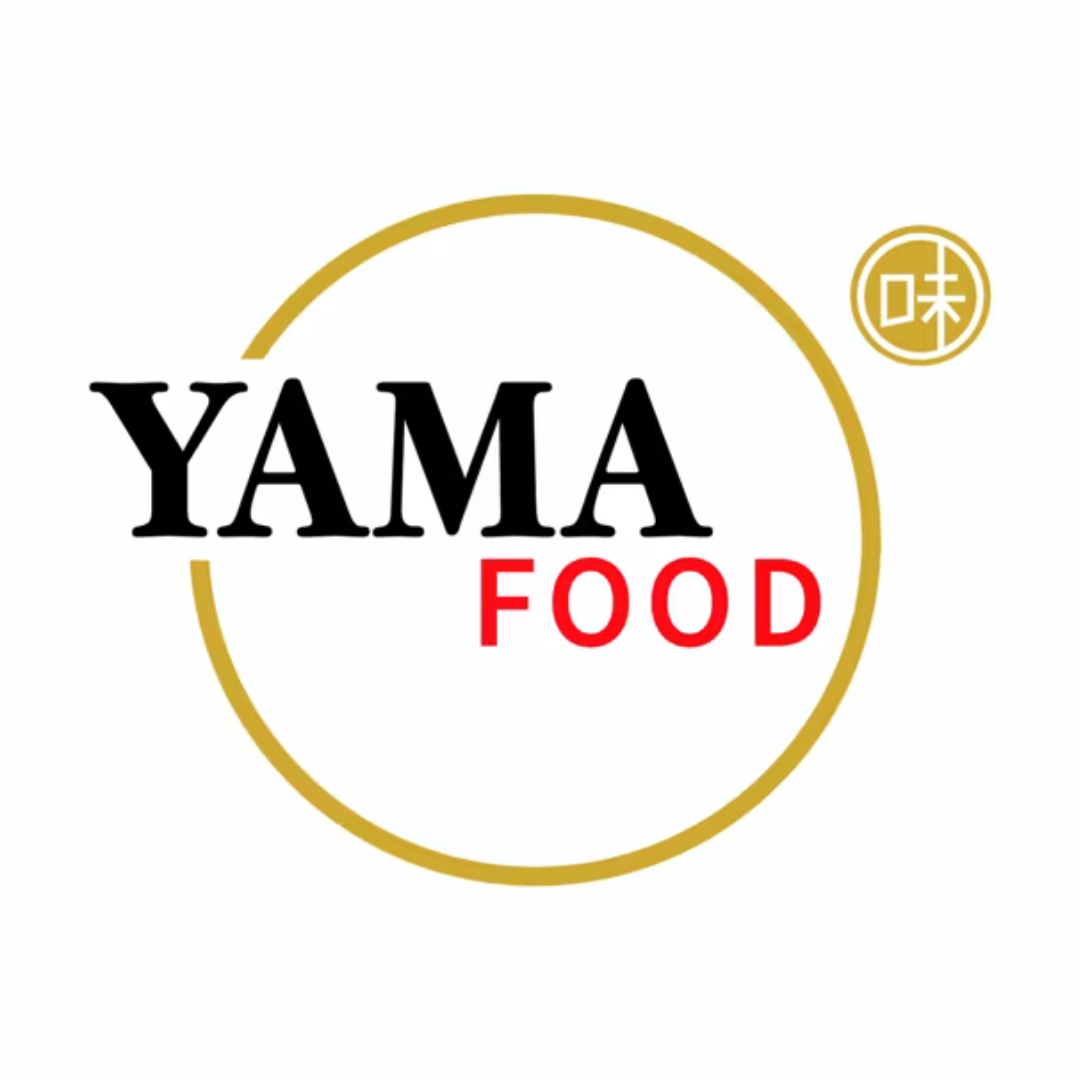
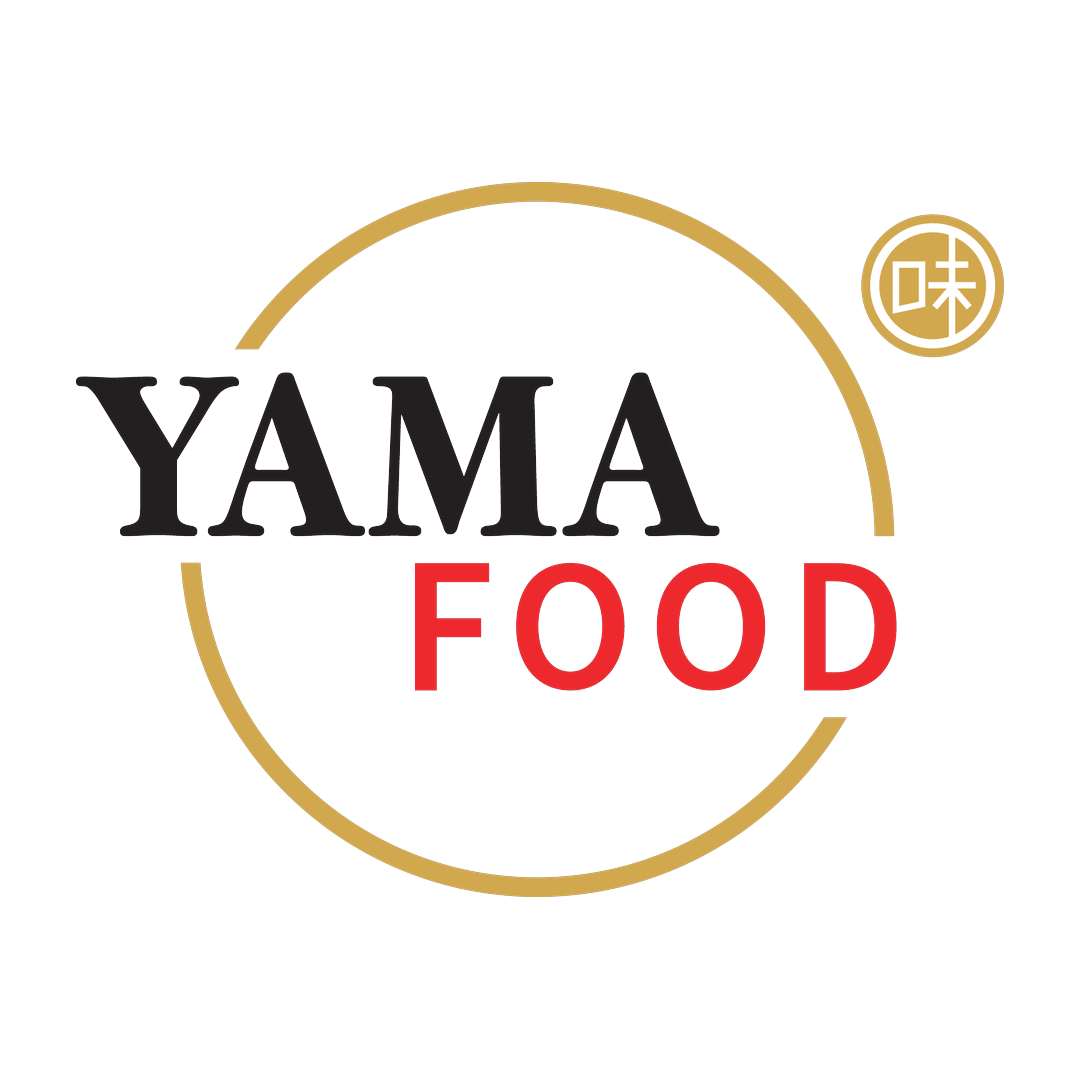
Partnerlogo's klikbaar + officieel Yama-beeldmerk
Elk logo in de slider linkt nu naar de site van de partner, in een
nieuw tabblad. De slider toont elke rij twee keer voor de doorlopende
scroll; die tweede set krijgt tabindex="-1" en aria-hidden, zodat
toetsenbord en screenreaders niet twaalf dubbele links tegenkomen.
Focus-outline toegevoegd voor toetsenbordgebruik.

Yama vervangen door het officiele beeldmerk uit Merkmateriaal:
transparant, getrimd en op hetzelfde vierkante formaat als de andere
tegels.

Changed region(s): [[0.0611, 0.1528, 0.9472, 0.8556]]

diff --git a/en/index.html b/en/index.html
@@ -8,7 +8,7 @@
   <link rel="preconnect" href="https://fonts.googleapis.com" />
   <link rel="preconnect" href="https://fonts.gstatic.com" crossorigin />
   <link href="https://fonts.googleapis.com/css2?family=Fraunces:opsz,wght@9..144,700;9..144,900&family=Montserrat:wght@300;500;600;700&display=swap" rel="stylesheet" />
-  <link rel="stylesheet" href="../style.css?v=16" />
+  <link rel="stylesheet" href="../style.css?v=28" />
   <link rel="icon" type="image/png" sizes="32x32" href="../assets/favicon-32.png" />
   <link rel="icon" type="image/png" sizes="16x16" href="../assets/favicon-16.png" />
   <link rel="icon" type="image/png" sizes="192x192" href="../assets/favicon-192.png" />
@@ -191,32 +191,32 @@
         <div class="partner-slider" aria-label="Partners and ambassadors">
           <div class="partner-track">
             <!-- set 1 -->
-            <div class="partner-logo"><img src="../assets/partners/coca-cola.png" alt="Coca-Cola" /></div>
-            <div class="partner-logo"><img src="../assets/partners/hendi.jpg" alt="HENDI" /></div>
-            <div class="partner-logo"><img src="../assets/partners/mocca-dor.jpg" alt="Mocca d'Or" /></div>
-            <div class="partner-logo"><img src="../assets/partners/kikkoman.jpg"       alt="Kikkoman" /></div>
-            <div class="partner-logo"><img src="../assets/partners/rational.png"       alt="Rational" /></div>
-            <div class="partner-logo"><img src="../assets/partners/big-green-egg.jpg"  alt="Big Green Egg" /></div>
-            <div class="partner-logo"><img src="../assets/partners/think-ahead.jpg"    alt="Think Ahead" /></div>
-            <div class="partner-logo"><img src="../assets/partners/van-drie.jpg"       alt="Van Drie" /></div>
-            <div class="partner-logo"><img src="../assets/partners/gastvrij-rotterdam.png" alt="Gastvrij Rotterdam" /></div>
-            <div class="partner-logo"><img src="../assets/partners/horecava.png" alt="Horecava" /></div>
-            <div class="partner-logo"><img src="../assets/partners/gastronomisch-gilde.png" alt="Gastronomisch Gilde" /></div>
-            <div class="partner-logo"><img src="../assets/partners/yama.png" alt="Yama Food" /></div>
+            <a class="partner-logo" href="https://www.cocacolaep.com/netherlands/" target="_blank" rel="noopener"><img src="../assets/partners/coca-cola.png" alt="Coca-Cola" /></a>
+            <a class="partner-logo" href="https://www.hendi.eu/nl/" target="_blank" rel="noopener"><img src="../assets/partners/hendi.jpg" alt="HENDI" /></a>
+            <a class="partner-logo" href="https://moccador.nl/" target="_blank" rel="noopener"><img src="../assets/partners/mocca-dor.jpg" alt="Mocca d'Or" /></a>
+            <a class="partner-logo" href="https://www.kikkoman.nl/" target="_blank" rel="noopener"><img src="../assets/partners/kikkoman.jpg"       alt="Kikkoman" /></a>
+            <a class="partner-logo" href="https://rational.nl/" target="_blank" rel="noopener"><img src="../assets/partners/rational.png"       alt="Rational" /></a>
+            <a class="partner-logo" href="https://www.biggreenegg.eu/nl/" target="_blank" rel="noopener"><img src="../assets/partners/big-green-egg.jpg"  alt="Big Green Egg" /></a>
+            <a class="partner-logo" href="https://www.torkglobal.com/nl/nl" target="_blank" rel="noopener"><img src="../assets/partners/think-ahead.jpg"    alt="Think Ahead" /></a>
+            <a class="partner-logo" href="https://www.vandriegroup.com/nl/" target="_blank" rel="noopener"><img src="../assets/partners/van-drie.jpg"       alt="Van Drie" /></a>
+            <a class="partner-logo" href="https://www.gastvrij-rotterdam.nl/" target="_blank" rel="noopener"><img src="../assets/partners/gastvrij-rotterdam.png" alt="Gastvrij Rotterdam" /></a>
+            <a class="partner-logo" href="https://www.horecava.nl/" target="_blank" rel="noopener"><img src="../assets/partners/horecava.png" alt="Horecava" /></a>
+            <a class="partner-logo" href="https://www.gastronomischgilde.online/" target="_blank" rel="noopener"><img src="../assets/partners/gastronomisch-gilde.png" alt="Gastronomisch Gilde" /></a>
+            <a class="partner-logo" href="https://yama.nl/nl/yama-food/" target="_blank" rel="noopener"><img src="../assets/partners/yama.png" alt="Yama Food" /></a>
 
             <!-- set 2 (duplicate for seamless loop) -->
-            <div class="partner-logo"><img src="../assets/partners/coca-cola.png" alt="" aria-hidden="true" /></div>
-            <div class="partner-logo"><img src="../assets/partners/hendi.jpg" alt="" aria-hidden="true" /></div>
-            <div class="partner-logo"><img src="../assets/partners/mocca-dor.jpg" alt="" aria-hidden="true" /></div>
-            <div class="partner-logo"><img src="../assets/partners/kikkoman.jpg"       alt="" aria-hidden="true" /></div>
-            <div class="partner-logo"><img src="../assets/partners/rational.png"       alt="" aria-hidden="true" /></div>
-            <div class="partner-logo"><img src="../assets/partners/big-green-egg.jpg"  alt="" aria-hidden="true" /></div>
-            <div class="partner-logo"><img src="../assets/partners/think-ahead.jpg"    alt="" aria-hidden="true" /></div>
-            <div class="partner-logo"><img src="../assets/partners/van-drie.jpg"       alt="" aria-hidden="true" /></div>
-            <div class="partner-logo"><img src="../assets/partners/gastvrij-rotterdam.png" alt="" aria-hidden="true" /></div>
-            <div class="partner-logo"><img src="../assets/partners/horecava.png" alt="" aria-hidden="true" /></div>
-            <div class="partner-logo"><img src="../assets/partners/gastronomisch-gilde.png" alt="" aria-hidden="true" /></div>
-            <div class="partner-logo"><img src="../assets/partners/yama.png" alt="" aria-hidden="true" /></div>
+            <a class="partner-logo" href="https://www.cocacolaep.com/netherlands/" target="_blank" rel="noopener" tabindex="-1" aria-hidden="true"><img src="../assets/partners/coca-cola.png" alt="" aria-hidden="true" /></a>
+            <a class="partner-logo" href="https://www.hendi.eu/nl/" target="_blank" rel="noopener" tabindex="-1" aria-hidden="true"><img src="../assets/partners/hendi.jpg" alt="" aria-hidden="true" /></a>
+            <a class="partner-logo" href="https://moccador.nl/" target="_blank" rel="noopener" tabindex="-1" aria-hidden="true"><img src="../assets/partners/mocca-dor.jpg" alt="" aria-hidden="true" /></a>
+            <a class="partner-logo" href="https://www.kikkoman.nl/" target="_blank" rel="noopener" tabindex="-1" aria-hidden="true"><img src="../assets/partners/kikkoman.jpg"       alt="" aria-hidden="true" /></a>
+            <a class="partner-logo" href="https://rational.nl/" target="_blank" rel="noopener" tabindex="-1" aria-hidden="true"><img src="../assets/partners/rational.png"       alt="" aria-hidden="true" /></a>
+            <a class="partner-logo" href="https://www.biggreenegg.eu/nl/" target="_blank" rel="noopener" tabindex="-1" aria-hidden="true"><img src="../assets/partners/big-green-egg.jpg"  alt="" aria-hidden="true" /></a>
+            <a class="partner-logo" href="https://www.torkglobal.com/nl/nl" target="_blank" rel="noopener" tabindex="-1" aria-hidden="true"><img src="../assets/partners/think-ahead.jpg"    alt="" aria-hidden="true" /></a>
+            <a class="partner-logo" href="https://www.vandriegroup.com/nl/" target="_blank" rel="noopener" tabindex="-1" aria-hidden="true"><img src="../assets/partners/van-drie.jpg"       alt="" aria-hidden="true" /></a>
+            <a class="partner-logo" href="https://www.gastvrij-rotterdam.nl/" target="_blank" rel="noopener" tabindex="-1" aria-hidden="true"><img src="../assets/partners/gastvrij-rotterdam.png" alt="" aria-hidden="true" /></a>
+            <a class="partner-logo" href="https://www.horecava.nl/" target="_blank" rel="noopener" tabindex="-1" aria-hidden="true"><img src="../assets/partners/horecava.png" alt="" aria-hidden="true" /></a>
+            <a class="partner-logo" href="https://www.gastronomischgilde.online/" target="_blank" rel="noopener" tabindex="-1" aria-hidden="true"><img src="../assets/partners/gastronomisch-gilde.png" alt="" aria-hidden="true" /></a>
+            <a class="partner-logo" href="https://yama.nl/nl/yama-food/" target="_blank" rel="noopener" tabindex="-1" aria-hidden="true"><img src="../assets/partners/yama.png" alt="" aria-hidden="true" /></a>
           </div>
         </div>
       </div>

diff --git a/fr/index.html b/fr/index.html
@@ -8,7 +8,7 @@
   <link rel="preconnect" href="https://fonts.googleapis.com" />
   <link rel="preconnect" href="https://fonts.gstatic.com" crossorigin />
   <link href="https://fonts.googleapis.com/css2?family=Fraunces:opsz,wght@9..144,700;9..144,900&family=Montserrat:wght@300;500;600;700&display=swap" rel="stylesheet" />
-  <link rel="stylesheet" href="../style.css?v=16" />
+  <link rel="stylesheet" href="../style.css?v=28" />
   <link rel="icon" type="image/png" sizes="32x32" href="../assets/favicon-32.png" />
   <link rel="icon" type="image/png" sizes="16x16" href="../assets/favicon-16.png" />
   <link rel="apple-touch-icon" sizes="180x180" href="../assets/favicon-180.png" />
@@ -182,30 +182,30 @@
 
         <div class="partner-slider" aria-label="Partenaires et ambassadeurs">
           <div class="partner-track">
-            <div class="partner-logo"><img src="../assets/partners/coca-cola.png" alt="Coca-Cola" /></div>
-            <div class="partner-logo"><img src="../assets/partners/hendi.jpg" alt="HENDI" /></div>
-            <div class="partner-logo"><img src="../assets/partners/mocca-dor.jpg" alt="Mocca d'Or" /></div>
-            <div class="partner-logo"><img src="../assets/partners/kikkoman.jpg"       alt="Kikkoman" /></div>
-            <div class="partner-logo"><img src="../assets/partners/rational.png"       alt="Rational" /></div>
-            <div class="partner-logo"><img src="../assets/partners/big-green-egg.jpg"  alt="Big Green Egg" /></div>
-            <div class="partner-logo"><img src="../assets/partners/think-ahead.jpg"    alt="Think Ahead" /></div>
-            <div class="partner-logo"><img src="../assets/partners/van-drie.jpg"       alt="Van Drie" /></div>
-            <div class="partner-logo"><img src="../assets/partners/gastvrij-rotterdam.png" alt="Gastvrij Rotterdam" /></div>
-            <div class="partner-logo"><img src="../assets/partners/horecava.png" alt="Horecava" /></div>
-            <div class="partner-logo"><img src="../assets/partners/gastronomisch-gilde.png" alt="Gastronomisch Gilde" /></div>
-            <div class="partner-logo"><img src="../assets/partners/yama.png" alt="Yama Food" /></div>
-            <div class="partner-logo"><img src="../assets/partners/coca-cola.png" alt="" aria-hidden="true" /></div>
-            <div class="partner-logo"><img src="../assets/partners/hendi.jpg" alt="" aria-hidden="true" /></div>
-            <div class="partner-logo"><img src="../assets/partners/mocca-dor.jpg" alt="" aria-hidden="true" /></div>
-            <div class="partner-logo"><img src="../assets/partners/kikkoman.jpg"       alt="" aria-hidden="true" /></div>
-            <div class="partner-logo"><img src="../assets/partners/rational.png"       alt="" aria-hidden="true" /></div>
-            <div class="partner-logo"><img src="../assets/partners/big-green-egg.jpg"  alt="" aria-hidden="true" /></div>
-            <div class="partner-logo"><img src="../assets/partners/think-ahead.jpg"    alt="" aria-hidden="true" /></div>
-            <div class="partner-logo"><img src="../assets/partners/van-drie.jpg"       alt="" aria-hidden="true" /></div>
-            <div class="partner-logo"><img src="../assets/partners/gastvrij-rotterdam.png" alt="" aria-hidden="true" /></div>
-            <div class="partner-logo"><img src="../assets/partners/horecava.png" alt="" aria-hidden="true" /></div>
-            <div class="partner-logo"><img src="../assets/partners/gastronomisch-gilde.png" alt="" aria-hidden="true" /></div>
-            <div class="partner-logo"><img src="../assets/partners/yama.png" alt="" aria-hidden="true" /></div>
+            <a class="partner-logo" href="https://www.cocacolaep.com/netherlands/" target="_blank" rel="noopener"><img src="../assets/partners/coca-cola.png" alt="Coca-Cola" /></a>
+            <a class="partner-logo" href="https://www.hendi.eu/nl/" target="_blank" rel="noopener"><img src="../assets/partners/hendi.jpg" alt="HENDI" /></a>
+            <a class="partner-logo" href="https://moccador.nl/" target="_blank" rel="noopener"><img src="../assets/partners/mocca-dor.jpg" alt="Mocca d'Or" /></a>
+            <a class="partner-logo" href="https://www.kikkoman.nl/" target="_blank" rel="noopener"><img src="../assets/partners/kikkoman.jpg"       alt="Kikkoman" /></a>
+            <a class="partner-logo" href="https://rational.nl/" target="_blank" rel="noopener"><img src="../assets/partners/rational.png"       alt="Rational" /></a>
+            <a class="partner-logo" href="https://www.biggreenegg.eu/nl/" target="_blank" rel="noopener"><img src="../assets/partners/big-green-egg.jpg"  alt="Big Green Egg" /></a>
+            <a class="partner-logo" href="https://www.torkglobal.com/nl/nl" target="_blank" rel="noopener"><img src="../assets/partners/think-ahead.jpg"    alt="Think Ahead" /></a>
+            <a class="partner-logo" href="https://www.vandriegroup.com/nl/" target="_blank" rel="noopener"><img src="../assets/partners/van-drie.jpg"       alt="Van Drie" /></a>
+            <a class="partner-logo" href="https://www.gastvrij-rotterdam.nl/" target="_blank" rel="noopener"><img src="../assets/partners/gastvrij-rotterdam.png" alt="Gastvrij Rotterdam" /></a>
+            <a class="partner-logo" href="https://www.horecava.nl/" target="_blank" rel="noopener"><img src="../assets/partners/horecava.png" alt="Horecava" /></a>
+            <a class="partner-logo" href="https://www.gastronomischgilde.online/" target="_blank" rel="noopener"><img src="../assets/partners/gastronomisch-gilde.png" alt="Gastronomisch Gilde" /></a>
+            <a class="partner-logo" href="https://yama.nl/nl/yama-food/" target="_blank" rel="noopener"><img src="../assets/partners/yama.png" alt="Yama Food" /></a>
+            <a class="partner-logo" href="https://www.cocacolaep.com/netherlands/" target="_blank" rel="noopener" tabindex="-1" aria-hidden="true"><img src="../assets/partners/coca-cola.png" alt="" aria-hidden="true" /></a>
+            <a class="partner-logo" href="https://www.hendi.eu/nl/" target="_blank" rel="noopener" tabindex="-1" aria-hidden="true"><img src="../assets/partners/hendi.jpg" alt="" aria-hidden="true" /></a>
+            <a class="partner-logo" href="https://moccador.nl/" target="_blank" rel="noopener" tabindex="-1" aria-hidden="true"><img src="../assets/partners/mocca-dor.jpg" alt="" aria-hidden="true" /></a>
+            <a class="partner-logo" href="https://www.kikkoman.nl/" target="_blank" rel="noopener" tabindex="-1" aria-hidden="true"><img src="../assets/partners/kikkoman.jpg"       alt="" aria-hidden="true" /></a>
+            <a class="partner-logo" href="https://rational.nl/" target="_blank" rel="noopener" tabindex="-1" aria-hidden="true"><img src="../assets/partners/rational.png"       alt="" aria-hidden="true" /></a>
+            <a class="partner-logo" href="https://www.biggreenegg.eu/nl/" target="_blank" rel="noopener" tabindex="-1" aria-hidden="true"><img src="../assets/partners/big-green-egg.jpg"  alt="" aria-hidden="true" /></a>
+            <a class="partner-logo" href="https://www.torkglobal.com/nl/nl" target="_blank" rel="noopener" tabindex="-1" aria-hidden="true"><img src="../assets/partners/think-ahead.jpg"    alt="" aria-hidden="true" /></a>
+            <a class="partner-logo" href="https://www.vandriegroup.com/nl/" target="_blank" rel="noopener" tabindex="-1" aria-hidden="true"><img src="../assets/partners/van-drie.jpg"       alt="" aria-hidden="true" /></a>
+            <a class="partner-logo" href="https://www.gastvrij-rotterdam.nl/" target="_blank" rel="noopener" tabindex="-1" aria-hidden="true"><img src="../assets/partners/gastvrij-rotterdam.png" alt="" aria-hidden="true" /></a>
+            <a class="partner-logo" href="https://www.horecava.nl/" target="_blank" rel="noopener" tabindex="-1" aria-hidden="true"><img src="../assets/partners/horecava.png" alt="" aria-hidden="true" /></a>
+            <a class="partner-logo" href="https://www.gastronomischgilde.online/" target="_blank" rel="noopener" tabindex="-1" aria-hidden="true"><img src="../assets/partners/gastronomisch-gilde.png" alt="" aria-hidden="true" /></a>
+            <a class="partner-logo" href="https://yama.nl/nl/yama-food/" target="_blank" rel="noopener" tabindex="-1" aria-hidden="true"><img src="../assets/partners/yama.png" alt="" aria-hidden="true" /></a>
           </div>
         </div>
       </div>

diff --git a/de/index.html b/de/index.html
@@ -8,7 +8,7 @@
   <link rel="preconnect" href="https://fonts.googleapis.com" />
   <link rel="preconnect" href="https://fonts.gstatic.com" crossorigin />
   <link href="https://fonts.googleapis.com/css2?family=Fraunces:opsz,wght@9..144,700;9..144,900&family=Montserrat:wght@300;500;600;700&display=swap" rel="stylesheet" />
-  <link rel="stylesheet" href="../style.css?v=16" />
+  <link rel="stylesheet" href="../style.css?v=28" />
   <link rel="icon" type="image/png" sizes="32x32" href="../assets/favicon-32.png" />
   <link rel="icon" type="image/png" sizes="16x16" href="../assets/favicon-16.png" />
   <link rel="apple-touch-icon" sizes="180x180" href="../assets/favicon-180.png" />
@@ -182,30 +182,30 @@
 
         <div class="partner-slider" aria-label="Partner und Ambassadors">
           <div class="partner-track">
-            <div class="partner-logo"><img src="../assets/partners/coca-cola.png" alt="Coca-Cola" /></div>
-            <div class="partner-logo"><img src="../assets/partners/hendi.jpg" alt="HENDI" /></div>
-            <div class="partner-logo"><img src="../assets/partners/mocca-dor.jpg" alt="Mocca d'Or" /></div>
-            <div class="partner-logo"><img src="../assets/partners/kikkoman.jpg"       alt="Kikkoman" /></div>
-            <div class="partner-logo"><img src="../assets/partners/rational.png"       alt="Rational" /></div>
-            <div class="partner-logo"><img src="../assets/partners/big-green-egg.jpg"  alt="Big Green Egg" /></div>
-            <div class="partner-logo"><img src="../assets/partners/think-ahead.jpg"    alt="Think Ahead" /></div>
-            <div class="partner-logo"><img src="../assets/partners/van-drie.jpg"       alt="Van Drie" /></div>
-            <div class="partner-logo"><img src="../assets/partners/gastvrij-rotterdam.png" alt="Gastvrij Rotterdam" /></div>
-            <div class="partner-logo"><img src="../assets/partners/horecava.png" alt="Horecava" /></div>
-            <div class="partner-logo"><img src="../assets/partners/gastronomisch-gilde.png" alt="Gastronomisch Gilde" /></div>
-            <div class="partner-logo"><img src="../assets/partners/yama.png" alt="Yama Food" /></div>
-            <div class="partner-logo"><img src="../assets/partners/coca-cola.png" alt="" aria-hidden="true" /></div>
-            <div class="partner-logo"><img src="../assets/partners/hendi.jpg" alt="" aria-hidden="true" /></div>
-            <div class="partner-logo"><img src="../assets/partners/mocca-dor.jpg" alt="" aria-hidden="true" /></div>
-            <div class="partner-logo"><img src="../assets/partners/kikkoman.jpg"       alt="" aria-hidden="true" /></div>
-            <div class="partner-logo"><img src="../assets/partners/rational.png"       alt="" aria-hidden="true" /></div>
-            <div class="partner-logo"><img src="../assets/partners/big-green-egg.jpg"  alt="" aria-hidden="true" /></div>
-            <div class="partner-logo"><img src="../assets/partners/think-ahead.jpg"    alt="" aria-hidden="true" /></div>
-            <div class="partner-logo"><img src="../assets/partners/van-drie.jpg"       alt="" aria-hidden="true" /></div>
-            <div class="partner-logo"><img src="../assets/partners/gastvrij-rotterdam.png" alt="" aria-hidden="true" /></div>
-            <div class="partner-logo"><img src="../assets/partners/horecava.png" alt="" aria-hidden="true" /></div>
-            <div class="partner-logo"><img src="../assets/partners/gastronomisch-gilde.png" alt="" aria-hidden="true" /></div>
-            <div class="partner-logo"><img src="../assets/partners/yama.png" alt="" aria-hidden="true" /></div>
+            <a class="partner-logo" href="https://www.cocacolaep.com/netherlands/" target="_blank" rel="noopener"><img src="../assets/partners/coca-cola.png" alt="Coca-Cola" /></a>
+            <a class="partner-logo" href="https://www.hendi.eu/nl/" target="_blank" rel="noopener"><img src="../assets/partners/hendi.jpg" alt="HENDI" /></a>
+            <a class="partner-logo" href="https://moccador.nl/" target="_blank" rel="noopener"><img src="../assets/partners/mocca-dor.jpg" alt="Mocca d'Or" /></a>
+            <a class="partner-logo" href="https://www.kikkoman.nl/" target="_blank" rel="noopener"><img src="../assets/partners/kikkoman.jpg"       alt="Kikkoman" /></a>
+            <a class="partner-logo" href="https://rational.nl/" target="_blank" rel="noopener"><img src="../assets/partners/rational.png"       alt="Rational" /></a>
+            <a class="partner-logo" href="https://www.biggreenegg.eu/nl/" target="_blank" rel="noopener"><img src="../assets/partners/big-green-egg.jpg"  alt="Big Green Egg" /></a>
+            <a class="partner-logo" href="https://www.torkglobal.com/nl/nl" target="_blank" rel="noopener"><img src="../assets/partners/think-ahead.jpg"    alt="Think Ahead" /></a>
+            <a class="partner-logo" href="https://www.vandriegroup.com/nl/" target="_blank" rel="noopener"><img src="../assets/partners/van-drie.jpg"       alt="Van Drie" /></a>
+            <a class="partner-logo" href="https://www.gastvrij-rotterdam.nl/" target="_blank" rel="noopener"><img src="../assets/partners/gastvrij-rotterdam.png" alt="Gastvrij Rotterdam" /></a>
+            <a class="partner-logo" href="https://www.horecava.nl/" target="_blank" rel="noopener"><img src="../assets/partners/horecava.png" alt="Horecava" /></a>
+            <a class="partner-logo" href="https://www.gastronomischgilde.online/" target="_blank" rel="noopener"><img src="../assets/partners/gastronomisch-gilde.png" alt="Gastronomisch Gilde" /></a>
+            <a class="partner-logo" href="https://yama.nl/nl/yama-food/" target="_blank" rel="noopener"><img src="../assets/partners/yama.png" alt="Yama Food" /></a>
+            <a class="partner-logo" href="https://www.cocacolaep.com/netherlands/" target="_blank" rel="noopener" tabindex="-1" aria-hidden="true"><img src="../assets/partners/coca-cola.png" alt="" aria-hidden="true" /></a>
+            <a class="partner-logo" href="https://www.hendi.eu/nl/" target="_blank" rel="noopener" tabindex="-1" aria-hidden="true"><img src="../assets/partners/hendi.jpg" alt="" aria-hidden="true" /></a>
+            <a class="partner-logo" href="https://moccador.nl/" target="_blank" rel="noopener" tabindex="-1" aria-hidden="true"><img src="../assets/partners/mocca-dor.jpg" alt="" aria-hidden="true" /></a>
+            <a class="partner-logo" href="https://www.kikkoman.nl/" target="_blank" rel="noopener" tabindex="-1" aria-hidden="true"><img src="../assets/partners/kikkoman.jpg"       alt="" aria-hidden="true" /></a>
+            <a class="partner-logo" href="https://rational.nl/" target="_blank" rel="noopener" tabindex="-1" aria-hidden="true"><img src="../assets/partners/rational.png"       alt="" aria-hidden="true" /></a>
+            <a class="partner-logo" href="https://www.biggreenegg.eu/nl/" target="_blank" rel="noopener" tabindex="-1" aria-hidden="true"><img src="../assets/partners/big-green-egg.jpg"  alt="" aria-hidden="true" /></a>
+            <a class="partner-logo" href="https://www.torkglobal.com/nl/nl" target="_blank" rel="noopener" tabindex="-1" aria-hidden="true"><img src="../assets/partners/think-ahead.jpg"    alt="" aria-hidden="true" /></a>
+            <a class="partner-logo" href="https://www.vandriegroup.com/nl/" target="_blank" rel="noopener" tabindex="-1" aria-hidden="true"><img src="../assets/partners/van-drie.jpg"       alt="" aria-hidden="true" /></a>
+            <a class="partner-logo" href="https://www.gastvrij-rotterdam.nl/" target="_blank" rel="noopener" tabindex="-1" aria-hidden="true"><img src="../assets/partners/gastvrij-rotterdam.png" alt="" aria-hidden="true" /></a>
+            <a class="partner-logo" href="https://www.horecava.nl/" target="_blank" rel="noopener" tabindex="-1" aria-hidden="true"><img src="../assets/partners/horecava.png" alt="" aria-hidden="true" /></a>
+            <a class="partner-logo" href="https://www.gastronomischgilde.online/" target="_blank" rel="noopener" tabindex="-1" aria-hidden="true"><img src="../assets/partners/gastronomisch-gilde.png" alt="" aria-hidden="true" /></a>
+            <a class="partner-logo" href="https://yama.nl/nl/yama-food/" target="_blank" rel="noopener" tabindex="-1" aria-hidden="true"><img src="../assets/partners/yama.png" alt="" aria-hidden="true" /></a>
           </div>
         </div>
       </div>

diff --git a/index.html b/index.html
@@ -7,7 +7,7 @@
   <link rel="preconnect" href="https://fonts.googleapis.com" />
   <link rel="preconnect" href="https://fonts.gstatic.com" crossorigin />
   <link href="https://fonts.googleapis.com/css2?family=Fraunces:opsz,wght@9..144,700;9..144,900&family=Montserrat:wght@300;500;600;700&display=swap" rel="stylesheet" />
-  <link rel="stylesheet" href="style.css?v=16" />
+  <link rel="stylesheet" href="style.css?v=28" />
   <link rel="icon" type="image/png" sizes="32x32" href="assets/favicon-32.png" />
   <link rel="icon" type="image/png" sizes="16x16" href="assets/favicon-16.png" />
   <link rel="icon" type="image/png" sizes="192x192" href="assets/favicon-192.png" />
@@ -191,32 +191,32 @@
         <div class="partner-slider" aria-label="Partners en ambassadeurs">
           <div class="partner-track">
             <!-- set 1 -->
-            <div class="partner-logo"><img src="assets/partners/coca-cola.png" alt="Coca-Cola" /></div>
-            <div class="partner-logo"><img src="assets/partners/hendi.jpg" alt="HENDI" /></div>
-            <div class="partner-logo"><img src="assets/partners/mocca-dor.jpg" alt="Mocca d'Or" /></div>
-            <div class="partner-logo"><img src="assets/partners/kikkoman.jpg"       alt="Kikkoman" /></div>
-            <div class="partner-logo"><img src="assets/partners/rational.png"       alt="Rational" /></div>
-            <div class="partner-logo"><img src="assets/partners/big-green-egg.jpg"  alt="Big Green Egg" /></div>
-            <div class="partner-logo"><img src="assets/partners/think-ahead.jpg"    alt="Think Ahead" /></div>
-            <div class="partner-logo"><img src="assets/partners/van-drie.jpg"       alt="Van Drie" /></div>
-            <div class="partner-logo"><img src="assets/partners/gastvrij-rotterdam.png" alt="Gastvrij Rotterdam" /></div>
-            <div class="partner-logo"><img src="assets/partners/horecava.png" alt="Horecava" /></div>
-            <div class="partner-logo"><img src="assets/partners/gastronomisch-gilde.png" alt="Gastronomisch Gilde" /></div>
-            <div class="partner-logo"><img src="assets/partners/yama.png" alt="Yama Food" /></div>
+            <a class="partner-logo" href="https://www.cocacolaep.com/netherlands/" target="_blank" rel="noopener"><img src="assets/partners/coca-cola.png" alt="Coca-Cola" /></a>
+            <a class="partner-logo" href="https://www.hendi.eu/nl/" target="_blank" rel="noopener"><img src="assets/partners/hendi.jpg" alt="HENDI" /></a>
+            <a class="partner-logo" href="https://moccador.nl/" target="_blank" rel="noopener"><img src="assets/partners/mocca-dor.jpg" alt="Mocca d'Or" /></a>
+            <a class="partner-logo" href="https://www.kikkoman.nl/" target="_blank" rel="noopener"><img src="assets/partners/kikkoman.jpg"       alt="Kikkoman" /></a>
+            <a class="partner-logo" href="https://rational.nl/" target="_blank" rel="noopener"><img src="assets/partners/rational.png"       alt="Rational" /></a>
+            <a class="partner-logo" href="https://www.biggreenegg.eu/nl/" target="_blank" rel="noopener"><img src="assets/partners/big-green-egg.jpg"  alt="Big Green Egg" /></a>
+            <a class="partner-logo" href="https://www.torkglobal.com/nl/nl" target="_blank" rel="noopener"><img src="assets/partners/think-ahead.jpg"    alt="Think Ahead" /></a>
+            <a class="partner-logo" href="https://www.vandriegroup.com/nl/" target="_blank" rel="noopener"><img src="assets/partners/van-drie.jpg"       alt="Van Drie" /></a>
+            <a class="partner-logo" href="https://www.gastvrij-rotterdam.nl/" target="_blank" rel="noopener"><img src="assets/partners/gastvrij-rotterdam.png" alt="Gastvrij Rotterdam" /></a>
+            <a class="partner-logo" href="https://www.horecava.nl/" target="_blank" rel="noopener"><img src="assets/partners/horecava.png" alt="Horecava" /></a>
+            <a class="partner-logo" href="https://www.gastronomischgilde.online/" target="_blank" rel="noopener"><img src="assets/partners/gastronomisch-gilde.png" alt="Gastronomisch Gilde" /></a>
+            <a class="partner-logo" href="https://yama.nl/nl/yama-food/" target="_blank" rel="noopener"><img src="assets/partners/yama.png" alt="Yama Food" /></a>
 
             <!-- set 2 (duplicate for seamless loop) -->
-            <div class="partner-logo"><img src="assets/partners/coca-cola.png" alt="" aria-hidden="true" /></div>
-            <div class="partner-logo"><img src="assets/partners/hendi.jpg" alt="" aria-hidden="true" /></div>
-            <div class="partner-logo"><img src="assets/partners/mocca-dor.jpg" alt="" aria-hidden="true" /></div>
-            <div class="partner-logo"><img src="assets/partners/kikkoman.jpg"       alt="" aria-hidden="true" /></div>
-            <div class="partner-logo"><img src="assets/partners/rational.png"       alt="" aria-hidden="true" /></div>
-            <div class="partner-logo"><img src="assets/partners/big-green-egg.jpg"  alt="" aria-hidden="true" /></div>
-            <div class="partner-logo"><img src="assets/partners/think-ahead.jpg"    alt="" aria-hidden="true" /></div>
-            <div class="partner-logo"><img src="assets/partners/van-drie.jpg"       alt="" aria-hidden="true" /></div>
-            <div class="partner-logo"><img src="assets/partners/gastvrij-rotterdam.png" alt="" aria-hidden="true" /></div>
-            <div class="partner-logo"><img src="assets/partners/horecava.png" alt="" aria-hidden="true" /></div>
-            <div class="partner-logo"><img src="assets/partners/gastronomisch-gilde.png" alt="" aria-hidden="true" /></div>
-            <div class="partner-logo"><img src="assets/partners/yama.png" alt="" aria-hidden="true" /></div>
+            <a class="partner-logo" href="https://www.cocacolaep.com/netherlands/" target="_blank" rel="noopener" tabindex="-1" aria-hidden="true"><img src="assets/partners/coca-cola.png" alt="" aria-hidden="true" /></a>
+            <a class="partner-logo" href="https://www.hendi.eu/nl/" target="_blank" rel="noopener" tabindex="-1" aria-hidden="true"><img src="assets/partners/hendi.jpg" alt="" aria-hidden="true" /></a>
+            <a class="partner-logo" href="https://moccador.nl/" target="_blank" rel="noopener" tabindex="-1" aria-hidden="true"><img src="assets/partners/mocca-dor.jpg" alt="" aria-hidden="true" /></a>
+            <a class="partner-logo" href="https://www.kikkoman.nl/" target="_blank" rel="noopener" tabindex="-1" aria-hidden="true"><img src="assets/partners/kikkoman.jpg"       alt="" aria-hidden="true" /></a>
+            <a class="partner-logo" href="https://rational.nl/" target="_blank" rel="noopener" tabindex="-1" aria-hidden="true"><img src="assets/partners/rational.png"       alt="" aria-hidden="true" /></a>
+            <a class="partner-logo" href="https://www.biggreenegg.eu/nl/" target="_blank" rel="noopener" tabindex="-1" aria-hidden="true"><img src="assets/partners/big-green-egg.jpg"  alt="" aria-hidden="true" /></a>
+            <a class="partner-logo" href="https://www.torkglobal.com/nl/nl" target="_blank" rel="noopener" tabindex="-1" aria-hidden="true"><img src="assets/partners/think-ahead.jpg"    alt="" aria-hidden="true" /></a>
+            <a class="partner-logo" href="https://www.vandriegroup.com/nl/" target="_blank" rel="noopener" tabindex="-1" aria-hidden="true"><img src="assets/partners/van-drie.jpg"       alt="" aria-hidden="true" /></a>
+            <a class="partner-logo" href="https://www.gastvrij-rotterdam.nl/" target="_blank" rel="noopener" tabindex="-1" aria-hidden="true"><img src="assets/partners/gastvrij-rotterdam.png" alt="" aria-hidden="true" /></a>
+            <a class="partner-logo" href="https://www.horecava.nl/" target="_blank" rel="noopener" tabindex="-1" aria-hidden="true"><img src="assets/partners/horecava.png" alt="" aria-hidden="true" /></a>
+            <a class="partner-logo" href="https://www.gastronomischgilde.online/" target="_blank" rel="noopener" tabindex="-1" aria-hidden="true"><img src="assets/partners/gastronomisch-gilde.png" alt="" aria-hidden="true" /></a>
+            <a class="partner-logo" href="https://yama.nl/nl/yama-food/" target="_blank" rel="noopener" tabindex="-1" aria-hidden="true"><img src="assets/partners/yama.png" alt="" aria-hidden="true" /></a>
           </div>
         </div>
       </div>

diff --git a/es/index.html b/es/index.html
@@ -8,7 +8,7 @@
   <link rel="preconnect" href="https://fonts.googleapis.com" />
   <link rel="preconnect" href="https://fonts.gstatic.com" crossorigin />
   <link href="https://fonts.googleapis.com/css2?family=Fraunces:opsz,wght@9..144,700;9..144,900&family=Montserrat:wght@300;500;600;700&display=swap" rel="stylesheet" />
-  <link rel="stylesheet" href="../style.css?v=16" />
+  <link rel="stylesheet" href="../style.css?v=28" />
   <link rel="icon" type="image/png" sizes="32x32" href="../assets/favicon-32.png" />
   <link rel="icon" type="image/png" sizes="16x16" href="../assets/favicon-16.png" />
   <link rel="apple-touch-icon" sizes="180x180" href="../assets/favicon-180.png" />
@@ -128,30 +128,30 @@
         </div>
         <div class="partner-slider" aria-label="Partners y embajadores">
           <div class="partner-track">
-            <div class="partner-logo"><img src="../assets/partners/coca-cola.png" alt="Coca-Cola" /></div>
-            <div class="partner-logo"><img src="../assets/partners/hendi.jpg" alt="HENDI" /></div>
-            <div class="partner-logo"><img src="../assets/partners/mocca-dor.jpg" alt="Mocca d'Or" /></div>
-            <div class="partner-logo"><img src="../assets/partners/kikkoman.jpg" alt="Kikkoman" /></div>
-            <div class="partner-logo"><img src="../assets/partners/rational.png" alt="Rational" /></div>
-            <div class="partner-logo"><img src="../assets/partners/big-green-egg.jpg" alt="Big Green Egg" /></div>
-            <div class="partner-logo"><img src="../assets/partners/think-ahead.jpg" alt="Think Ahead" /></div>
-            <div class="partner-logo"><img src="../assets/partners/van-drie.jpg" alt="Van Drie" /></div>
-            <div class="partner-logo"><img src="../assets/partners/gastvrij-rotterdam.png" alt="Gastvrij Rotterdam" /></div>
-            <div class="partner-logo"><img src="../assets/partners/horecava.png" alt="Horecava" /></div>
-            <div class="partner-logo"><img src="../assets/partners/gastronomisch-gilde.png" alt="Gastronomisch Gilde" /></div>
-            <div class="partner-logo"><img src="../assets/partners/yama.png" alt="Yama Food" /></div>
-            <div class="partner-logo"><img src="../assets/partners/coca-cola.png" alt="" aria-hidden="true" /></div>
-            <div class="partner-logo"><img src="../assets/partners/hendi.jpg" alt="" aria-hidden="true" /></div>
-            <div class="partner-logo"><img src="../assets/partners/mocca-dor.jpg" alt="" aria-hidden="true" /></div>
-            <div class="partner-logo"><img src="../assets/partners/kikkoman.jpg" alt="" aria-hidden="true" /></div>
-            <div class="partner-logo"><img src="../assets/partners/rational.png" alt="" aria-hidden="true" /></div>
-            <div class="partner-logo"><img src="../assets/partners/big-green-egg.jpg" alt="" aria-hidden="true" /></div>
-            <div class="partner-logo"><img src="../assets/partners/think-ahead.jpg" alt="" aria-hidden="true" /></div>
-            <div class="partner-logo"><img src="../assets/partners/van-drie.jpg" alt="" aria-hidden="true" /></div>
-            <div class="partner-logo"><img src="../assets/partners/gastvrij-rotterdam.png" alt="" aria-hidden="true" /></div>
-            <div class="partner-logo"><img src="../assets/partners/horecava.png" alt="" aria-hidden="true" /></div>
-            <div class="partner-logo"><img src="../assets/partners/gastronomisch-gilde.png" alt="" aria-hidden="true" /></div>
-            <div class="partner-logo"><img src="../assets/partners/yama.png" alt="" aria-hidden="true" /></div>
+            <a class="partner-logo" href="https://www.cocacolaep.com/netherlands/" target="_blank" rel="noopener"><img src="../assets/partners/coca-cola.png" alt="Coca-Cola" /></a>
+            <a class="partner-logo" href="https://www.hendi.eu/nl/" target="_blank" rel="noopener"><img src="../assets/partners/hendi.jpg" alt="HENDI" /></a>
+            <a class="partner-logo" href="https://moccador.nl/" target="_blank" rel="noopener"><img src="../assets/partners/mocca-dor.jpg" alt="Mocca d'Or" /></a>
+            <a class="partner-logo" href="https://www.kikkoman.nl/" target="_blank" rel="noopener"><img src="../assets/partners/kikkoman.jpg" alt="Kikkoman" /></a>
+            <a class="partner-logo" href="https://rational.nl/" target="_blank" rel="noopener"><img src="../assets/partners/rational.png" alt="Rational" /></a>
+            <a class="partner-logo" href="https://www.biggreenegg.eu/nl/" target="_blank" rel="noopener"><img src="../assets/partners/big-green-egg.jpg" alt="Big Green Egg" /></a>
+            <a class="partner-logo" href="https://www.torkglobal.com/nl/nl" target="_blank" rel="noopener"><img src="../assets/partners/think-ahead.jpg" alt="Think Ahead" /></a>
+            <a class="partner-logo" href="https://www.vandriegroup.com/nl/" target="_blank" rel="noopener"><img src="../assets/partners/van-drie.jpg" alt="Van Drie" /></a>
+            <a class="partner-logo" href="https://www.gastvrij-rotterdam.nl/" target="_blank" rel="noopener"><img src="../assets/partners/gastvrij-rotterdam.png" alt="Gastvrij Rotterdam" /></a>
+            <a class="partner-logo" href="https://www.horecava.nl/" target="_blank" rel="noopener"><img src="../assets/partners/horecava.png" alt="Horecava" /></a>
+            <a class="partner-logo" href="https://www.gastronomischgilde.online/" target="_blank" rel="noopener"><img src="../assets/partners/gastronomisch-gilde.png" alt="Gastronomisch Gilde" /></a>
+            <a class="partner-logo" href="https://yama.nl/nl/yama-food/" target="_blank" rel="noopener"><img src="../assets/partners/yama.png" alt="Yama Food" /></a>
+            <a class="partner-logo" href="https://www.cocacolaep.com/netherlands/" target="_blank" rel="noopener" tabindex="-1" aria-hidden="true"><img src="../assets/partners/coca-cola.png" alt="" aria-hidden="true" /></a>
+            <a class="partner-logo" href="https://www.hendi.eu/nl/" target="_blank" rel="noopener" tabindex="-1" aria-hidden="true"><img src="../assets/partners/hendi.jpg" alt="" aria-hidden="true" /></a>
+            <a class="partner-logo" href="https://moccador.nl/" target="_blank" rel="noopener" tabindex="-1" aria-hidden="true"><img src="../assets/partners/mocca-dor.jpg" alt="" aria-hidden="true" /></a>
+            <a class="partner-logo" href="https://www.kikkoman.nl/" target="_blank" rel="noopener" tabindex="-1" aria-hidden="true"><img src="../assets/partners/kikkoman.jpg" alt="" aria-hidden="true" /></a>
+            <a class="partner-logo" href="https://rational.nl/" target="_blank" rel="noopener" tabindex="-1" aria-hidden="true"><img src="../assets/partners/rational.png" alt="" aria-hidden="true" /></a>
+            <a class="partner-logo" href="https://www.biggreenegg.eu/nl/" target="_blank" rel="noopener" tabindex="-1" aria-hidden="true"><img src="../assets/partners/big-green-egg.jpg" alt="" aria-hidden="true" /></a>
+            <a class="partner-logo" href="https://www.torkglobal.com/nl/nl" target="_blank" rel="noopener" tabindex="-1" aria-hidden="true"><img src="../assets/partners/think-ahead.jpg" alt="" aria-hidden="true" /></a>
+            <a class="partner-logo" href="https://www.vandriegroup.com/nl/" target="_blank" rel="noopener" tabindex="-1" aria-hidden="true"><img src="../assets/partners/van-drie.jpg" alt="" aria-hidden="true" /></a>
+            <a class="partner-logo" href="https://www.gastvrij-rotterdam.nl/" target="_blank" rel="noopener" tabindex="-1" aria-hidden="true"><img src="../assets/partners/gastvrij-rotterdam.png" alt="" aria-hidden="true" /></a>
+            <a class="partner-logo" href="https://www.horecava.nl/" target="_blank" rel="noopener" tabindex="-1" aria-hidden="true"><img src="../assets/partners/horecava.png" alt="" aria-hidden="true" /></a>
+            <a class="partner-logo" href="https://www.gastronomischgilde.online/" target="_blank" rel="noopener" tabindex="-1" aria-hidden="true"><img src="../assets/partners/gastronomisch-gilde.png" alt="" aria-hidden="true" /></a>
+            <a class="partner-logo" href="https://yama.nl/nl/yama-food/" target="_blank" rel="noopener" tabindex="-1" aria-hidden="true"><img src="../assets/partners/yama.png" alt="" aria-hidden="true" /></a>
           </div>
         </div>
       </div>

diff --git a/style.css b/style.css
@@ -434,6 +434,12 @@ p { margin: 0 0 1rem; }
   box-shadow: var(--shadow-sm);
   padding: 14px 22px;
   transition: transform .25s, box-shadow .25s;
+  text-decoration: none;
+  color: inherit;
+}
+a.partner-logo:focus-visible {
+  outline: 3px solid var(--c-primary);
+  outline-offset: 3px;
 }
 .partner-logo:hover {
   transform: translateY(-4px);
